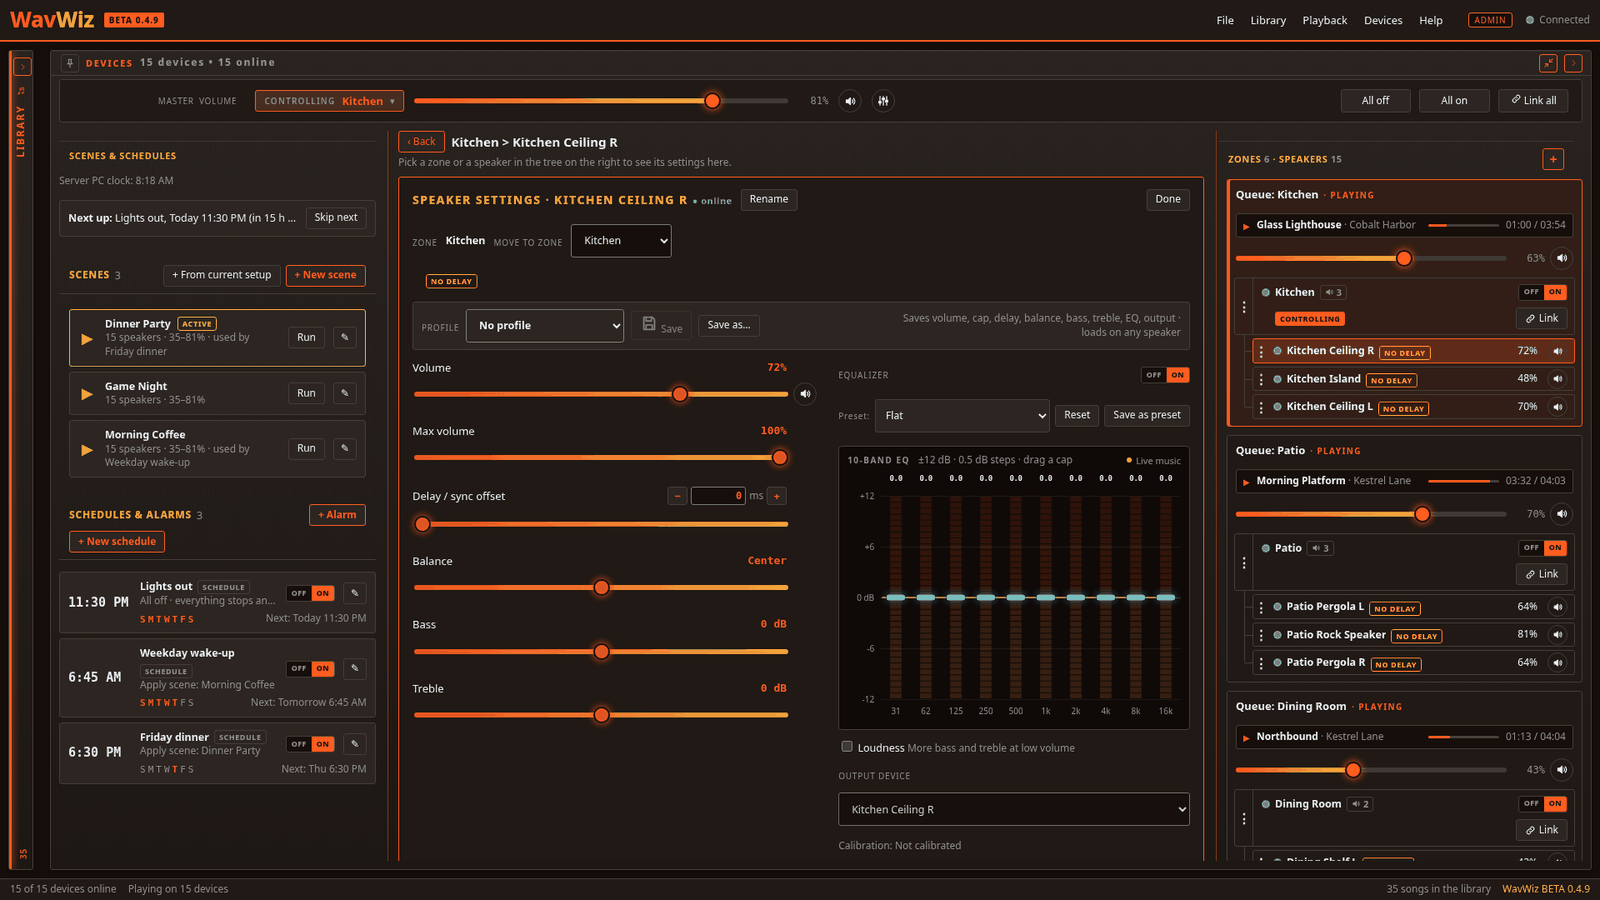
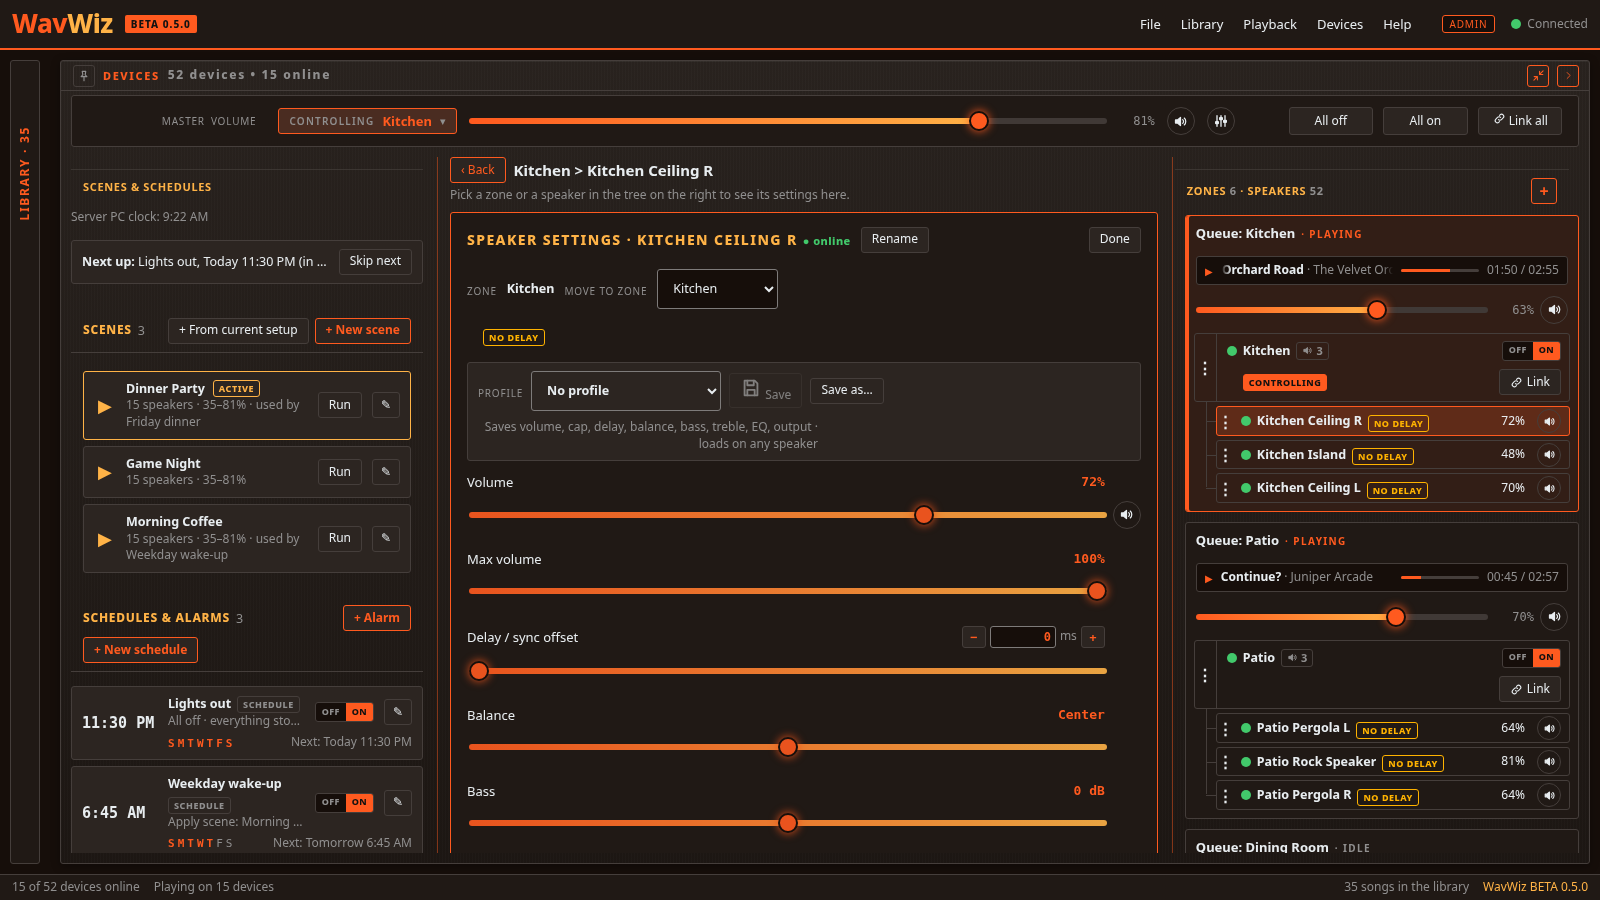
docs: refresh screenshots for 0.5.0 (flat Now Playing, 0.5.0 chrome)

Changed region(s): [[0.0, 0.0, 1.0, 0.9956]]

diff --git a/README.md b/README.md
@@ -20,7 +20,7 @@ WavWiz turns an always-on Windows PC into a whole-home music server. Your librar
 
 ## Screenshots
 
-![WavWiz 0.4.9 main window: the library, the live LED EQ, the playlist, the compact Now Playing bar and six zones of speakers, each zone playing its own music](docs/img/wavwiz-main.png)
+![WavWiz 0.5.0 main window: the library, the live LED EQ, the playlist, the compact Now Playing bar and six zones of speakers, each zone playing its own music](docs/img/wavwiz-main.png)
 
 | Zones and speakers | Master volume | Jukebox zone |
 | --- | --- | --- |
